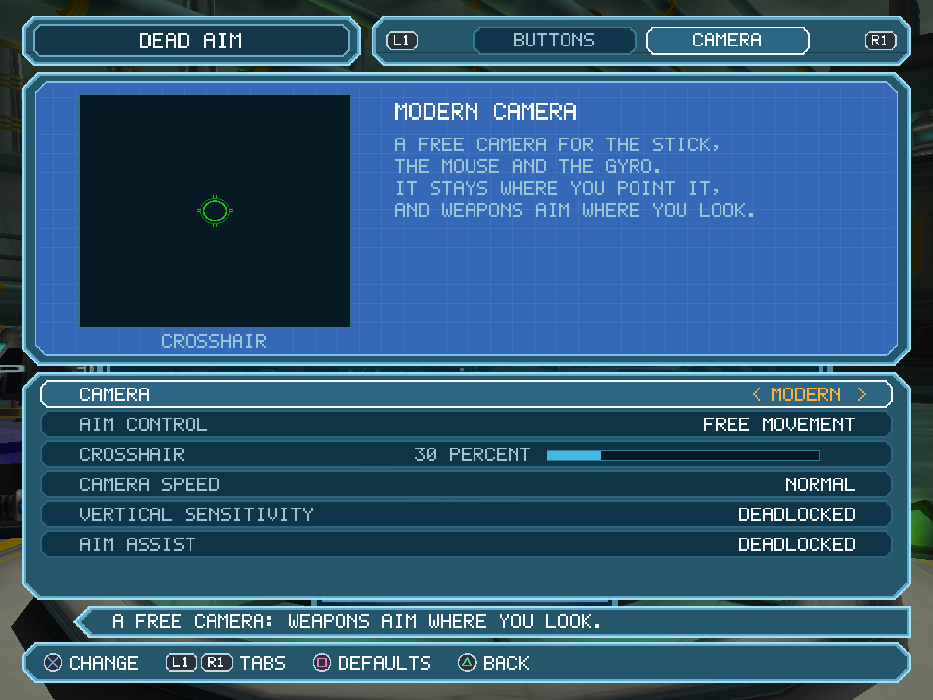
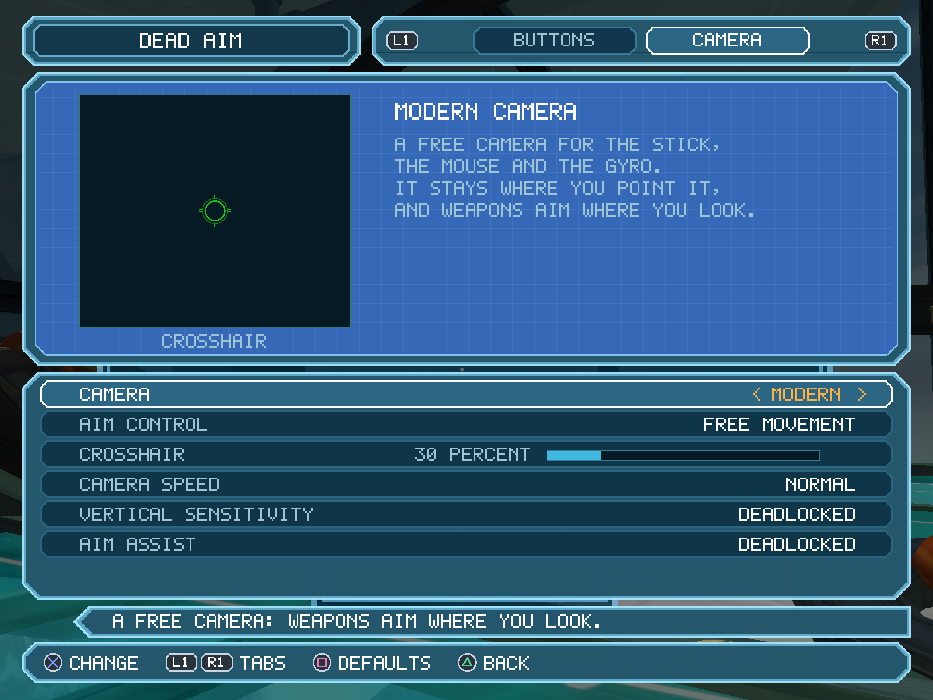
0.1.3: Fire shoots as any Hypnomatic robot; the menu's crosshair preview kept round
The Receiver Bot shoots with Square in play (the decompiled check read as no attack), so Fire is
Square for every robot; the beam stays on the Wrench button. The Camera tab's crosshair preview
takes the menu's horizontal scale, so it stays round in widescreen as the game's own does. The
README's Camera tab picture retaken.

diff --git a/src/mod.cpp b/src/mod.cpp
@@ -127,10 +127,9 @@ constexpr gaddr kMobyClass = 0xAA;  // s16 of a moby
 constexpr gaddr kMobyVars = 0x68;   // u32 of a moby: its own vars
 constexpr int kClankClass = 87;     // the hero's moby while the player is Clank
 // The Hypnomatic's robot (form 4; docs/notes/rac2-robot-and-turret-controls.md): its body is the hero
-// moby; the attack robot (Damosel, Grelbin) fires with Square, the Receiver Bot has no attack and
-// its Circle is the Hypnomatic's beam.
+// moby; every robot fires its gun with Square (the Receiver Bot too, in play) and its Circle is the
+// Hypnomatic's beam.
 constexpr std::uint8_t kRobotForm = 4;
-constexpr std::int16_t kAttackRobotClass = 0xEC0;
 
 // The groups of the hero's states (hero +0x229C; docs/notes/rac2-special-situations.md). On foot:
 // standing, moving, jumping, crouching, landing; the player's buttons are the mod's.
@@ -1903,17 +1902,15 @@ void on_pad(int port, std::uint8_t* report, int size) {
     config.lock_strafe = s.lock == Lock::Always
         || (s.lock == Lock::Weapon && gate != strafe::Gate::Off
             && is_weapon(g_auto.phase != AutoPhase::Idle && g_auto.previous != 0 ? g_auto.previous : item));
-    // The Hypnomatic's robot: the player's layout on its buttons. Fire is its attack (Square) or,
-    // for the Receiver Bot (none), its beam (Circle); Wrench is the beam; the face buttons swapped so
+    // The Hypnomatic's robot: the player's layout on its buttons. Fire is its gun (Square; the
+    // Receiver Bot's too, as played); Wrench is the beam (Circle); the face buttons swapped so
     // Circle shoots and Square beams, as Ratchet's fire and wrench sit. Crouch (it has none) toggles
     // the strafe, held for it as for Ratchet with a weapon; Aim lets the strafe go (it looks only
     // standing still).
     const std::uint8_t form = memory.read<std::uint8_t>(kHeroForm);
     if (form == kRobotForm) {
-        const gaddr body = memory.read<gaddr>(kHeroMoby);
-        const bool attacks = in_ram(body) && memory.read<std::int16_t>(body + kMobyClass) == kAttackRobotClass;
         config.lock_strafe = s.lock != Lock::Off && gate != strafe::Gate::Off;
-        config.fire_button = attacks ? strafe::kSquare : strafe::kCircle;
+        config.fire_button = strafe::kSquare;
         config.wrench_button = strafe::kCircle;
         config.swap_circle_square = true;
         config.crouch_toggles = true;
@@ -4860,12 +4857,13 @@ void diagram_camera(const Pen& p, float x, float y, float w, float h, int /*curs
         for (int i = 0; i < 4; ++i) p.text(tx, y + 36 + i * 14, 10, kDim, lines[i]);
         return;
     }
-    // The crosshair at its size, as the game draws it (40 units by its scale, stretched as the
-    // picture is), in a frame like a little screen.
+    // The crosshair at its size, as the game draws it (40 units by its scale, round on any screen:
+    // the game keeps its reticles round in widescreen), in a frame like a little screen.
     const float bx = x + 24, bw = 150, by = y + 8, bh = h - 26;
     p.rect(bx, by, bw, bh, kGlassDeep);
     p.edge(bx, by, bw, bh, 1.0f, kEdgeDim);
     const float ccx = bx + bw / 2, ccy = by + bh / 2, k = 40.0f / 64.0f * reticle_base(38, 1.0f) * s.crosshair_size;
+    const float kx = k * p.ax;  // across: the menu's units for a true unit
     const struct { float r0, r1; std::uint32_t c; } bands[] = {{18.5f, 21.5f, 0x0FFF0FC0u}, {24.75f, 26.25f, 0x0FFF0F70u}};
     for (const auto& band : bands) {
         if (!crosshair_shown()) break;  // Off: none to show
@@ -4874,19 +4872,19 @@ void diagram_camera(const Pen& p, float x, float y, float w, float h, int /*curs
             if (o2 <= 0) continue;
             const float xo = std::sqrt(o2), i2 = band.r0 * band.r0 - yc * yc;
             if (i2 <= 0) {
-                p.rect(ccx - xo * k, ccy + yy * k, 2 * xo * k, 0.5f * k, band.c);
+                p.rect(ccx - xo * kx, ccy + yy * k, 2 * xo * kx, 0.5f * k, band.c);
             } else {
                 const float xi = std::sqrt(i2);
-                p.rect(ccx - xo * k, ccy + yy * k, (xo - xi) * k, 0.5f * k, band.c);
-                p.rect(ccx + xi * k, ccy + yy * k, (xo - xi) * k, 0.5f * k, band.c);
+                p.rect(ccx - xo * kx, ccy + yy * k, (xo - xi) * kx, 0.5f * k, band.c);
+                p.rect(ccx + xi * kx, ccy + yy * k, (xo - xi) * kx, 0.5f * k, band.c);
             }
         }
     }
     for (int side = -1; side <= 1 && crosshair_shown(); side += 2) {
         for (float off : {-3.0f, 1.0f}) {
             const float x0 = side < 0 ? -32.0f : 26.25f;
-            p.rect(ccx + x0 * k, ccy + off * k, 5.75f * k, 2.0f * k, 0x0FFF0FC0u);
-            p.rect(ccx + off * k, ccy + x0 * k, 2.0f * k, 5.75f * k, 0x0FFF0FC0u);
+            p.rect(ccx + x0 * kx, ccy + off * k, 5.75f * kx, 2.0f * k, 0x0FFF0FC0u);
+            p.rect(ccx + off * kx, ccy + x0 * k, 2.0f * kx, 5.75f * k, 0x0FFF0FC0u);
         }
     }
     if (!crosshair_shown()) p.text_centred(ccx, ccy - 5, 10, kDim, "OFF");
@@ -5491,4 +5489,4 @@ void load(openrac::Mod& mod) {
 
 }  // namespace
 
-OPENRAC_MOD_CPP("rac2-dead-aim", "0.1.2", load)
+OPENRAC_MOD_CPP("rac2-dead-aim", "0.1.3", load)

diff --git a/docs/notes/rac2-robot-and-turret-controls.md b/docs/notes/rac2-robot-and-turret-controls.md
@@ -64,7 +64,7 @@ Robot decider cases are the same in all three levels:
 | action | game button | where / condition | conf. |
 |---|---|---|---|
 | **Jump** | **Cross**, pressed within 8 ticks | 0x8D idle (:2416) and 0x8E walk (:2554) go to **0x92**. In 0x92, Cross within 4 ticks re-jumps on landing (:2497) | H |
-| **Attack / shoot** | **Square**, pressed within 9 ticks | 0x8D (:2420) and 0x8E (:2558) go to **0x93**, **except the Receiver Bot (0xEE1), which has no attack**. 0x93 runs `shooter_update_ranged_attack` on the robot (`L20_002CD928.c:3102-3117`). For 0xEC0: each new Square press resets the attack timer vars+0x392, so tapping keeps it firing; at 0 it returns to 0x8D (`levels/shared/L18_00427BE0-burst-g8.c:30-49`). Controlled shots fly along the robot's facing, with no height aim (`L18_00427BE0-shot-g8.c:51-69`) | H (button), M (what fires) |
+| **Attack / shoot** | **Square**, pressed within 9 ticks | 0x8D (:2420) and 0x8E (:2558) go to **0x93**, **except, by the decompiled check, the Receiver Bot (0xEE1)**. In play the Receiver Bot shoots with Square all the same (Yeedil, v1.01: Square held as the robot fires its orange shots; Circle held grows the beam), so the check is read wrong or the shot comes from another path. Seen in game, H. 0x93 runs `shooter_update_ranged_attack` on the robot (`L20_002CD928.c:3102-3117`). For 0xEC0: each new Square press resets the attack timer vars+0x392, so tapping keeps it firing; at 0 it returns to 0x8D (`levels/shared/L18_00427BE0-burst-g8.c:30-49`). Controlled shots fly along the robot's facing, with no height aim (`L18_00427BE0-shot-g8.c:51-69`) | H (button), M (what fires) |
 | **Look / aim ("view")** | **L1 held**, **only from idle 0x8D** | Also needs +0x1500 == 0 and `level_get_saved_value()` == 0 (:2408). This is Ratchet's look state **1** (camera request 4; state entry `L20_002D7730-state-g8.c:335-341`). The Hypnomatic's update turns 1 into **29** (camera request 0x51; `levels/shared/L00_003B3158-lock-g8.c:203`, entry `L20_002D7730-state-g8.c:1201`). The robot stands still. **0x8E (walk) has no L1 test.** Release L1 → state 0, whose entry sends any form != 0 back to 0x8D (`decider.c:584-586, 2590-2593`; `state-g8.c:211`; `L20_002D6488.c:15-30`) | H |
 | **Strafe** | **L2 or R2 held** (flag +0x1454) | In 0x8E the robot uses `hero_update_turn_from_anim` (`L20_002CD928.c:3144-3146`). It **faces the camera yaw and moves along the stick**, as Ratchet does (`levels/shared/L00_002B35A0.c:9-40`; push direction +0x1440, `L20_002CD928.c:3186-3190`) | H |
 | Circle (Fire) | **Hypnomatic beam** from the robot, when the Hypnomatic is the equipped item | The item's button is slot0 mask = **0x20 (Circle)**; the wrench uses 0x80 (`levels/shared/L00_002AFBC0.c:238-244`). target_lock_on_update has form-4 branches: beam origin at robot joint 5 (:124-127), the equip delay is waived (:205), and Circle held grows the beam (`L00_003B84F0-g8.c:176, 207-215`). The beam can hypnotise the next robot (see 1a) | H (code), M (that it runs in form 4) |
@@ -120,9 +120,9 @@ State entry is in `L20_002D7730-state-g8.c` (all robot states request camera +0x
    - Aim → L1 (as now).
    - **Crouch shoulder → the strafe toggle**. R1 is dead for the robot, so nothing is lost.
    - Lock strafe holds **L2**; R2 works the same.
-   - **Fire**: the robot's gun is **Square** (class 0xEC0); its Circle is the Hypnomatic beam. Suggested: Fire →
-     Square when the class is 0xEC0, Fire → Circle when it is 0xEE1. The Wrench action → Circle for 0xEC0, so the beam
-     stays reachable. M (design choice)
+   - **Fire**: the robot's gun is **Square** for every class (the Receiver Bot's too, seen in play); its Circle is
+     the Hypnomatic beam. So Fire → Square and the Wrench action → Circle, so the beam stays reachable. (Fire →
+     Circle for the Receiver Bot, from the decompiled check, put the beam on Fire; changed in 0.1.3.)
 3. **Lock strafe blocks the L1 view after the robot has walked** (H).
    - 0x8E returns to idle 0x8D only when the stick is < 0.17 **and +0x1454 == 0** (`decider.c:2566-2568`).
    - Only 0x8D tests L1.

diff --git a/CHANGELOG.md b/CHANGELOG.md
@@ -1,10 +1,14 @@
 # Changelog
 
-## Unreleased
+## 0.1.3
 
 - Crouch Behavior: Crouch + Square on the run with a weapon out swaps to the wrench and throws it
   without stopping (it stopped him in the game's crouch). Fire then brings your weapon back, as
   after the game's own Square.
+- The Hypnomatic's robot: on Yeedil's Receiver Bots, Fire shoots (it fired the Hypnomatic's beam,
+  which stays on the Wrench button).
+- The menu's crosshair preview stays round in widescreen (it stretched with the picture; the game's
+  own crosshair was round all along).
 
 ## 0.1.2
 
